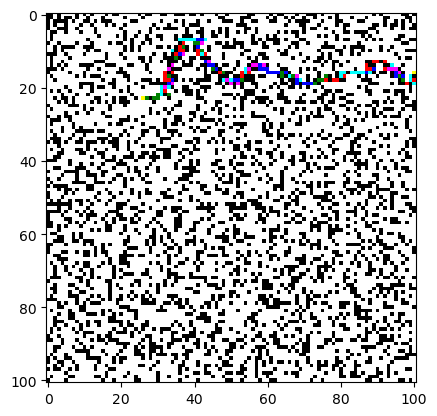
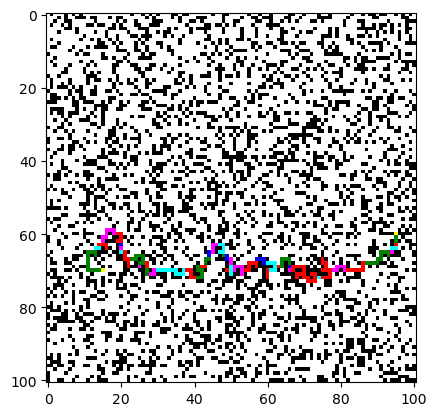
git stuff

diff --git a/AIProjects-master/Project1/RepeatedForwardAStarBreakLarge.py b/AIProjects-master/Project1/RepeatedForwardAStarBreakLarge.py
@@ -48,9 +48,9 @@ def ComputePath(rgrid, goal, openlist, closedlist, counter):
         actions_possible = []
 
 def main():
-    sys.stdout = open('output.txt','w')
+    #sys.stdout = open('output.txt','w')
     start_time = time()
-    #import pdb;pdb.set_trace()
+    import pdb;pdb.set_trace()
     expanded = 0
     counter = 0  #set iteration counter
     text = sys.argv[1]
@@ -65,8 +65,10 @@ def main():
 
     lstart = lgoal = start = goal = None
     while (lstart is None) or (lgoal is None) or lstart.blocked or lgoal.blocked:
-        goal = ( 0 , 0 ) #(random.randint(0,100),random.randint(0,100)) # tuple(column, row)
-        start = ( 98 , 100 )#(random.randint(0,100),random.randint(0,100)) # tuple(column, row)
+        #goal = ( 0 , 0 )
+        #start = ( 98 , 100 )
+        goal = (random.randint(0,100),random.randint(0,100)) # tuple(column, row)
+        start = (random.randint(0,100),random.randint(0,100)) # tuple(column, row)
         #using random gen for the moment
         #initialize start and goal nodes
         lstart = rgrid[start[0]][start[1]]
@@ -76,7 +78,7 @@ def main():
     lstart.setCostToCome(goal[0], goal[1])
     lstart.costToGo = 0
     openlist = BreakLargeHeap.BLHeap()
-    
+
     while lstart != lgoal:
         lgoal.costToGo = math.inf
         #increment counter to keep track of nodes over iterations
@@ -104,7 +106,7 @@ def main():
         nstart = None
         flagnode = None
         for i in range(len(path),0,-1):
-            #TODO implement later. 
+            #TODO implement later.
             check = path[i-1]
             print(str(counter),check.x,check.y,str(check.blocked))
             if check == goal:

diff --git a/AIProjects-master/Project1/RepeatFABreak_LS.py b/AIProjects-master/Project1/RepeatFABreak_LS.py
@@ -8,7 +8,7 @@ import random
 import sys
 from time import time
 
-DEBUGFLAG = True
+DEBUGFLAG = False
 
 def ComputePath(rgrid, goal, openlist, closedlist, counter):
     #loggrid = [101][101]
@@ -141,7 +141,11 @@ def main():
 
     return
 
-
+def printNodeList(closedlist):
+    count = 1
+    for node in closedlist:
+        print("Element#", count,'\t', node," : fvalue - ", node.fvalue(), " , CostToGo - ", node.costToGo)
+        count +=1
 
 if __name__ == "__main__":
     main()
